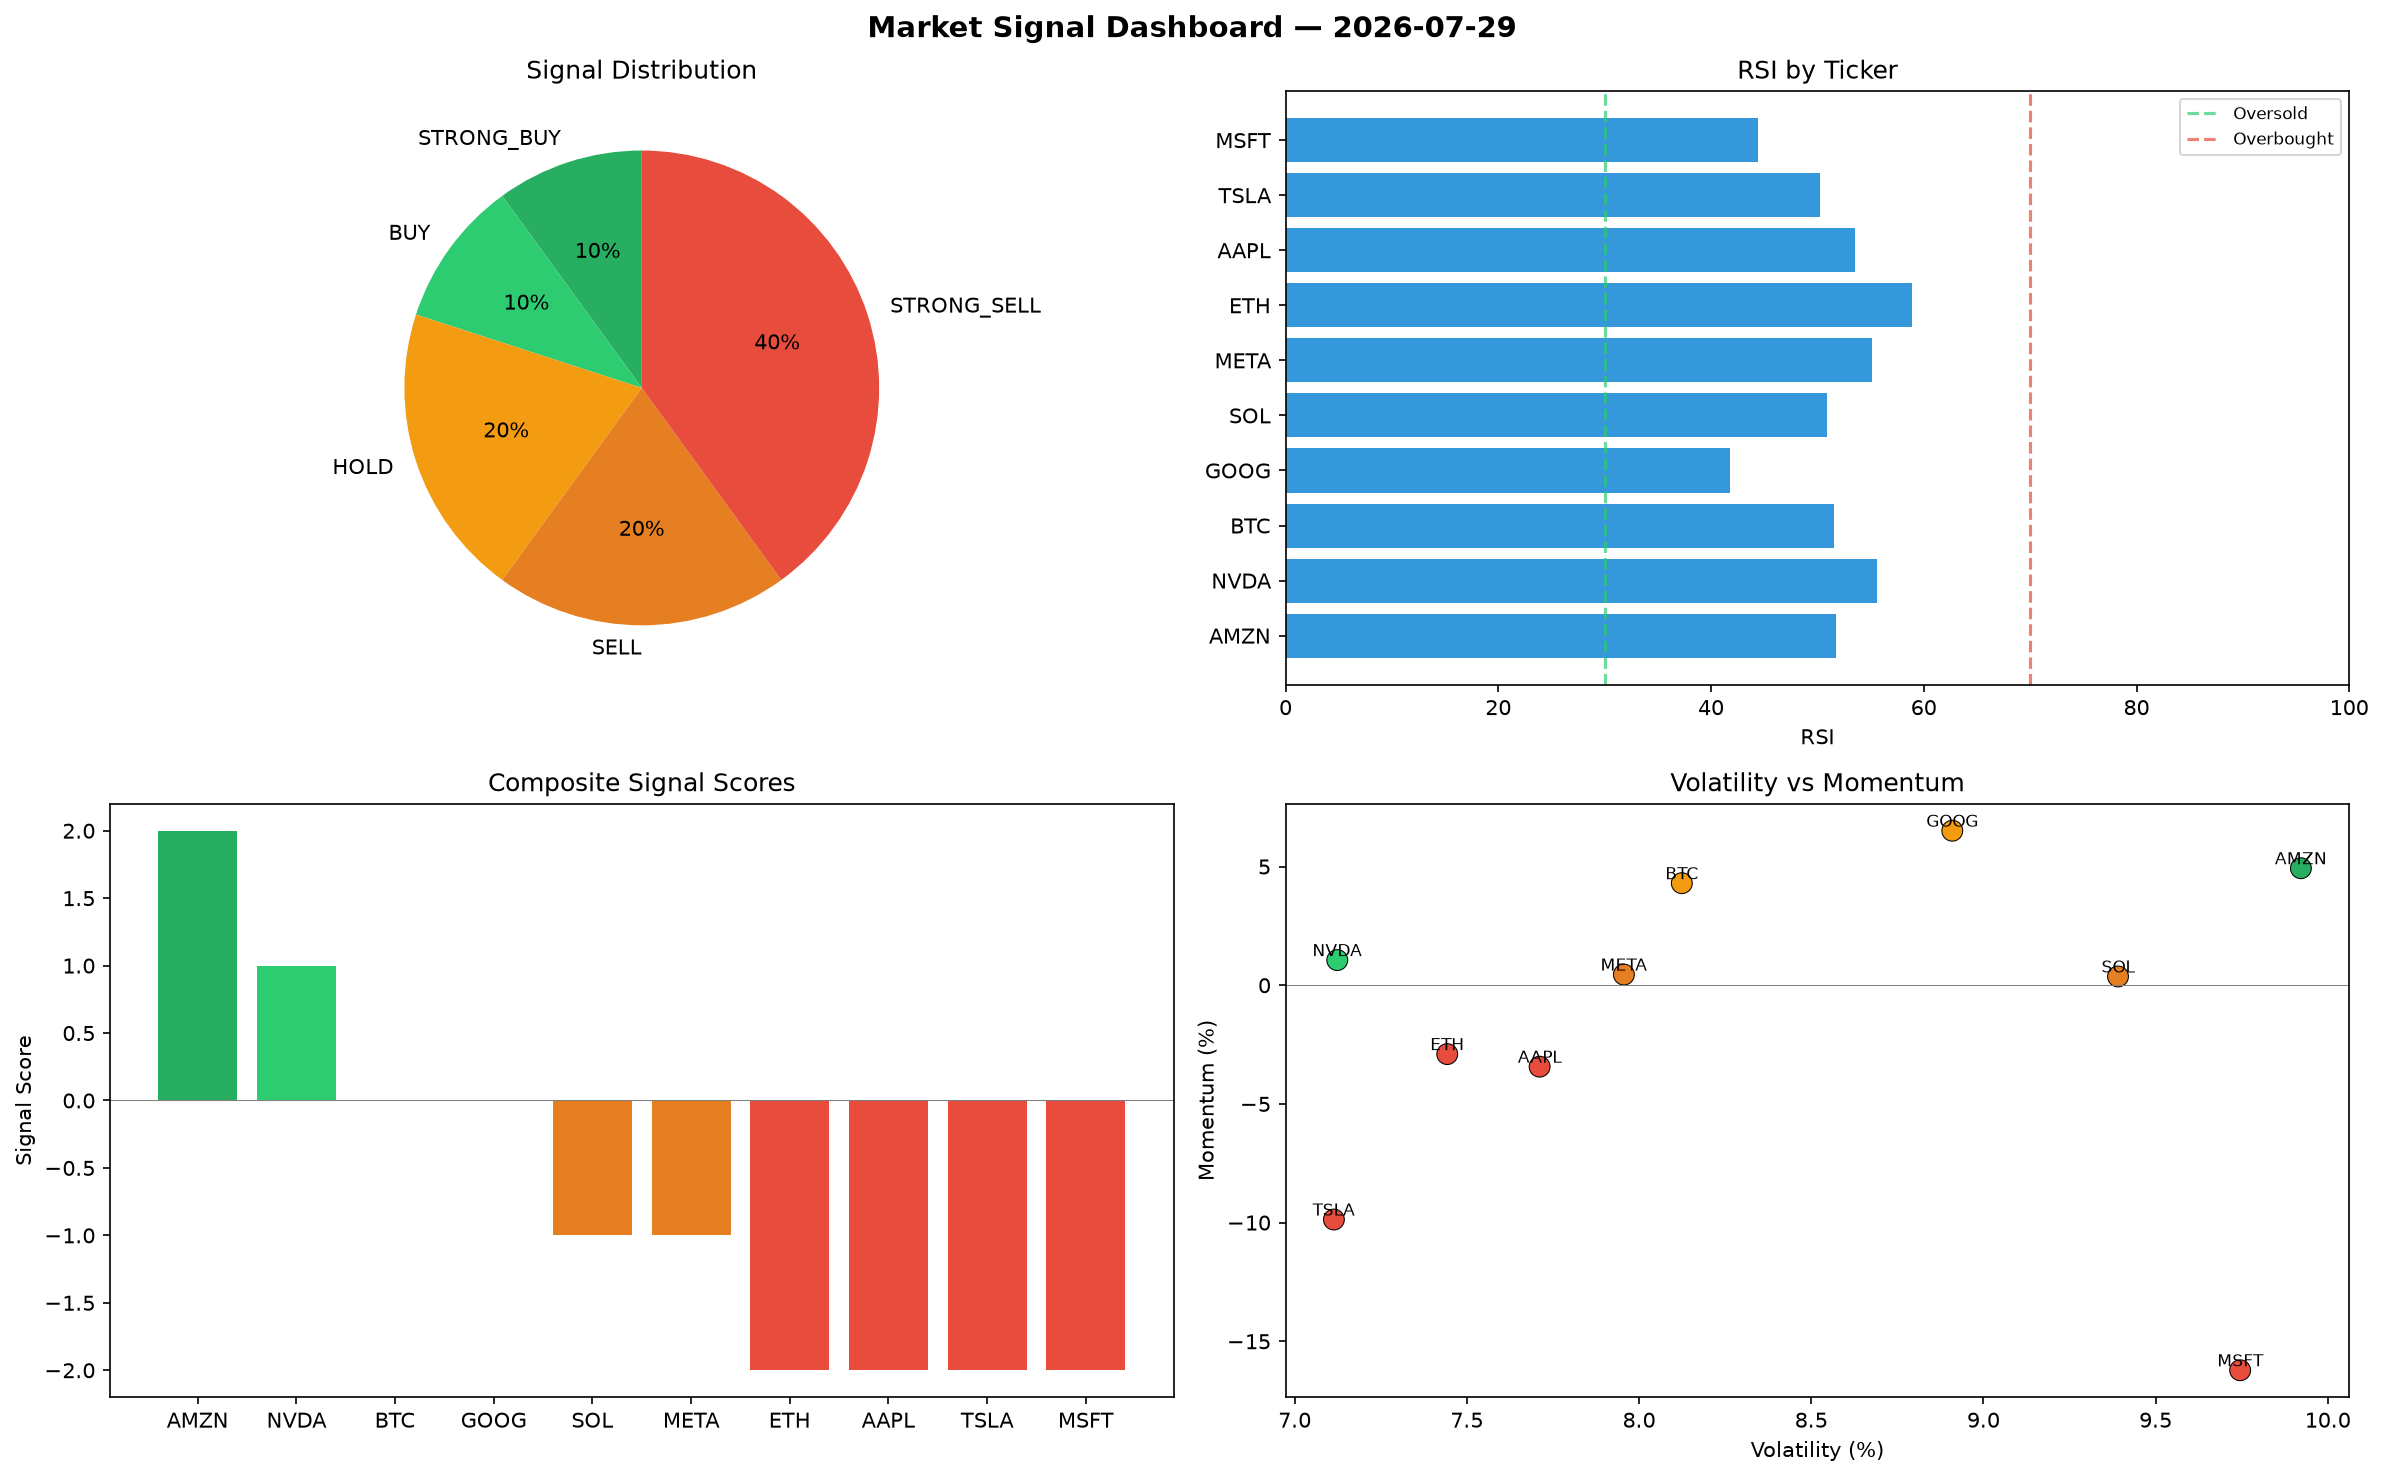
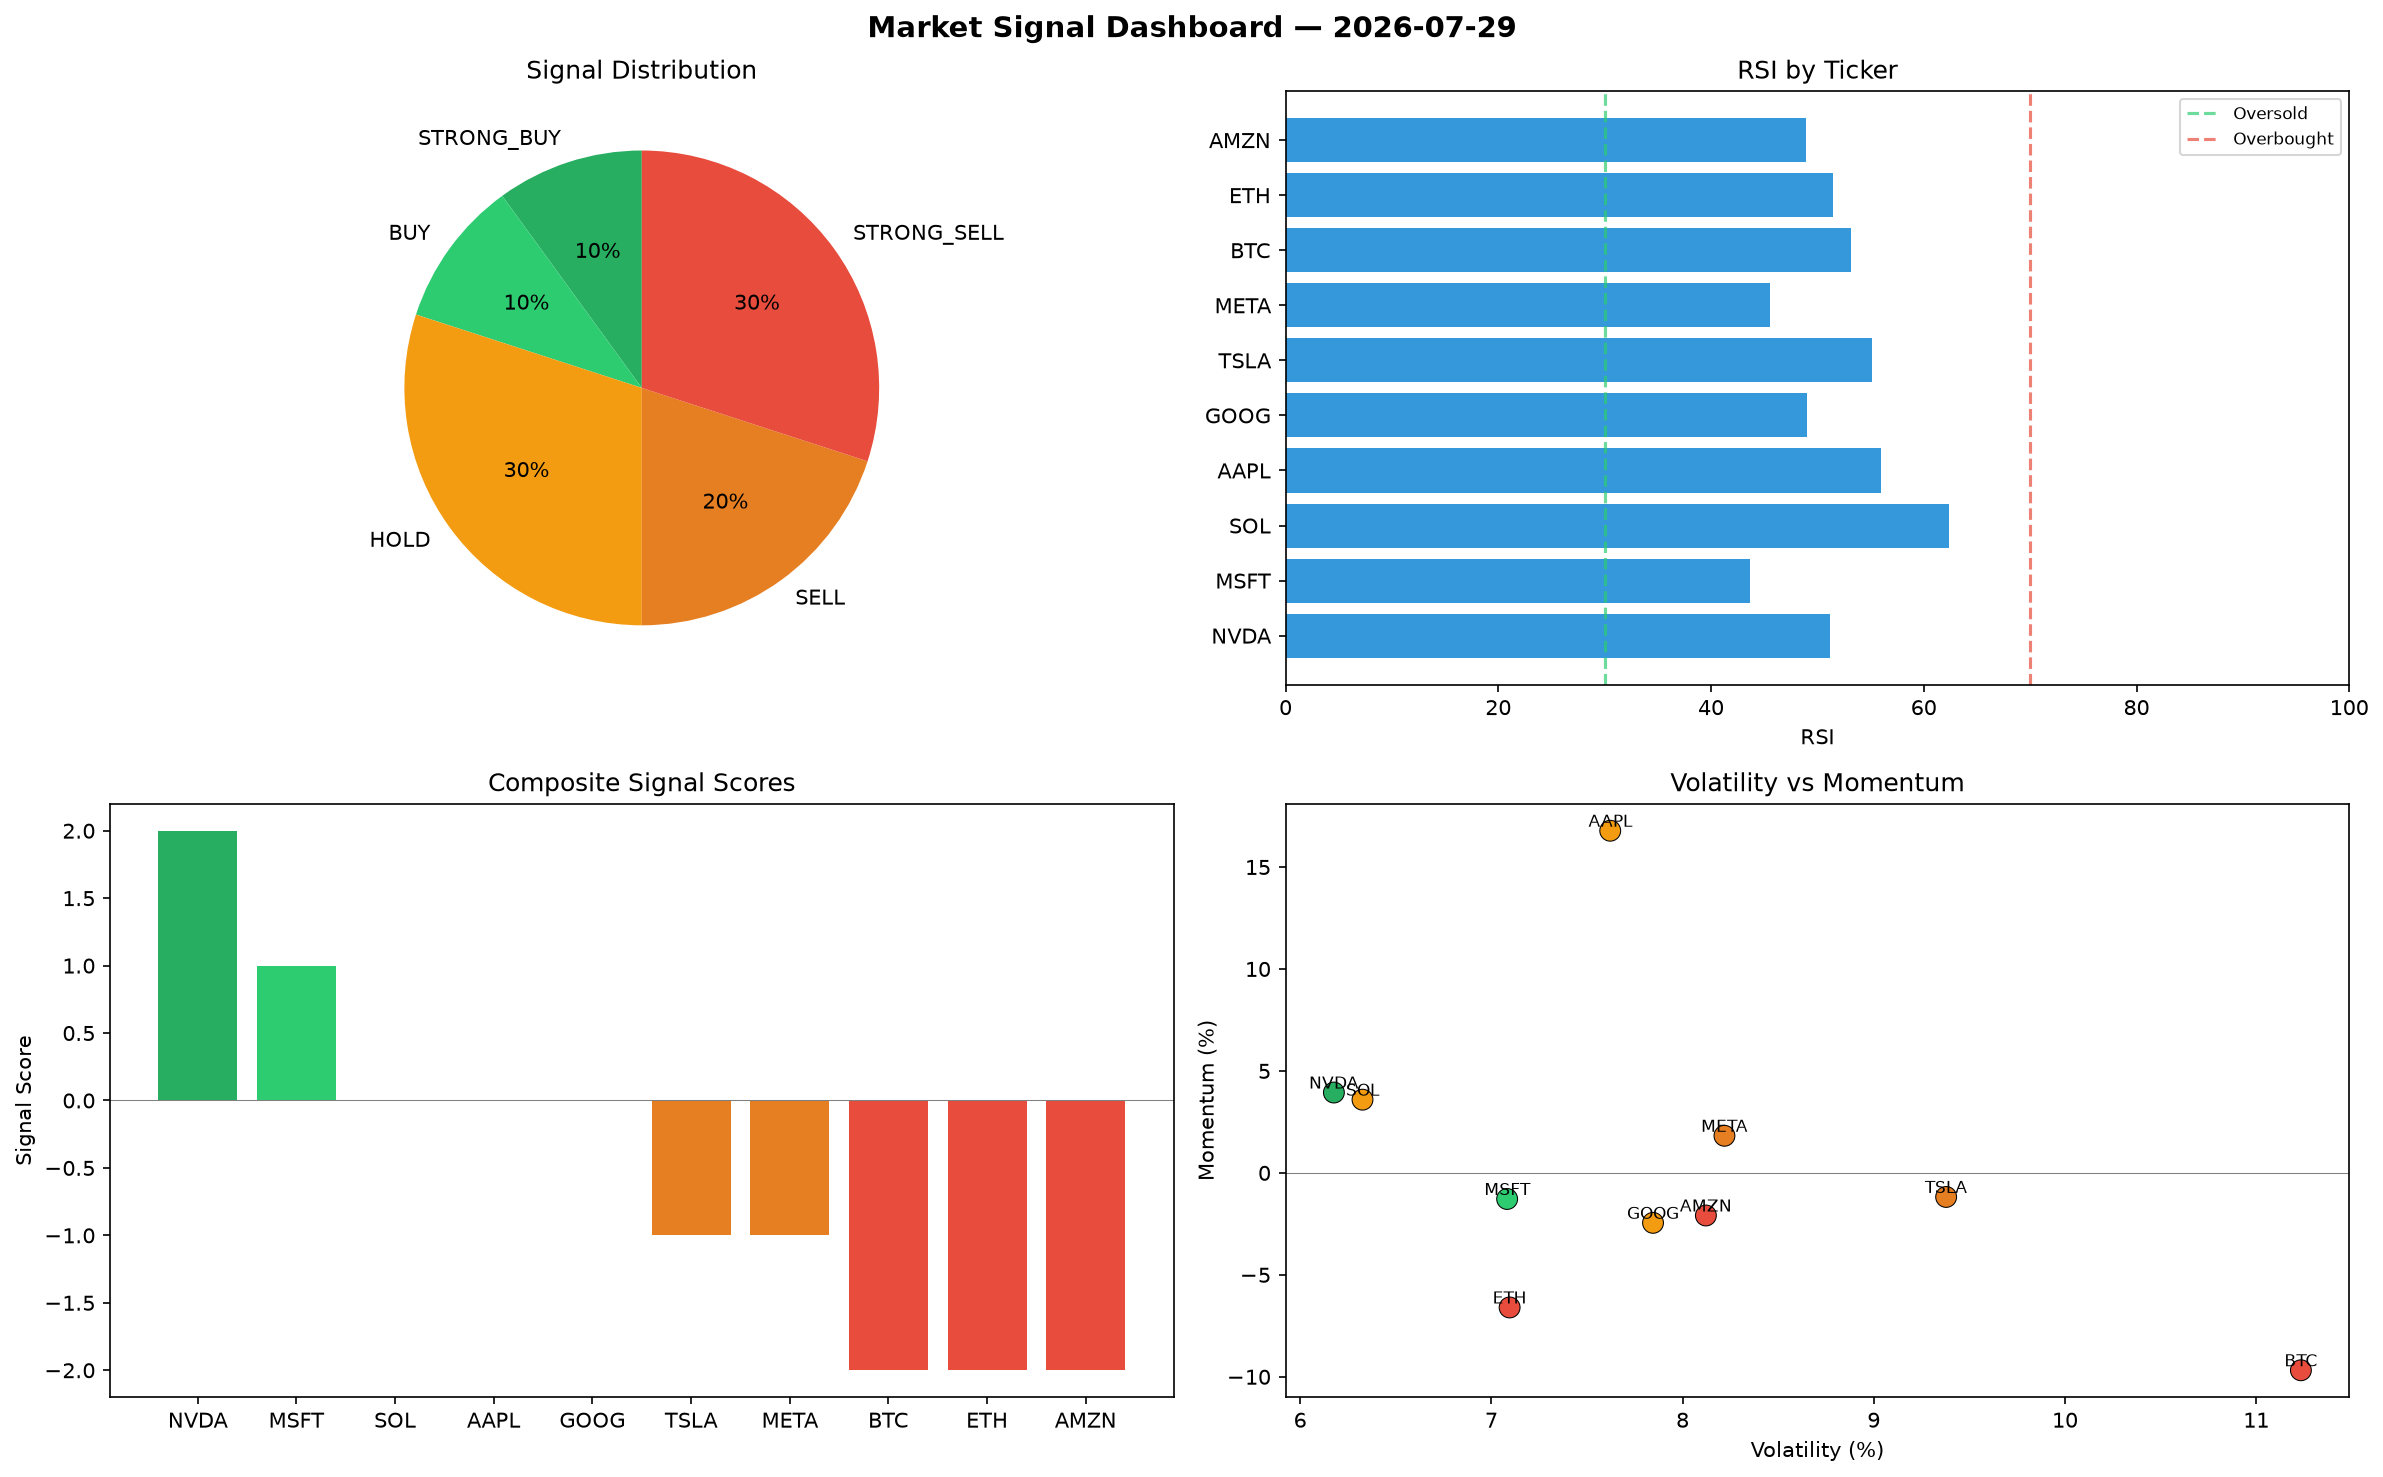
automated-bots: market signals 2026-07-29T21:24

diff --git a/logs/2026-07-29.md b/logs/2026-07-29.md
@@ -1,6 +1,6 @@
 # Market Signal Report — 2026-07-29
 
-**Run ID:** `843c8c6505` | **Buy:** 2 | **Sell:** 6 | **Hold:** 2
+**Run ID:** `90fa2414be` | **Buy:** 2 | **Sell:** 5 | **Hold:** 3
 
 ![Dashboard](2026-07-29_dashboard.png)
 
@@ -8,28 +8,28 @@
 
 | Ticker | Price | Signal | Score | RSI | Momentum | Confidence |
 |--------|-------|--------|-------|-----|----------|------------|
-| AMZN | $416.53 | **STRONG_BUY** | 2 | 51.71 | 0.0493 | 0.5 |
-| NVDA | $3095.83 | **BUY** | 1 | 55.61 | 0.0106 | 0.25 |
-| BTC | $1679.36 | **HOLD** | 0 | 51.52 | 0.043 | 0.0 |
-| GOOG | $3085.04 | **HOLD** | 0 | 41.8 | 0.0651 | 0.0 |
-| SOL | $49.23 | **SELL** | -1 | 50.94 | 0.0037 | 0.25 |
-| META | $4251.24 | **SELL** | -1 | 55.14 | 0.0045 | 0.25 |
-| ETH | $2367.4 | **STRONG_SELL** | -2 | 58.86 | -0.029 | 0.5 |
-| AAPL | $484.28 | **STRONG_SELL** | -2 | 53.5 | -0.0343 | 0.5 |
-| TSLA | $3409.26 | **STRONG_SELL** | -2 | 50.25 | -0.0987 | 0.5 |
-| MSFT | $2532.12 | **STRONG_SELL** | -2 | 44.4 | -0.1622 | 0.5 |
+| NVDA | $4976.82 | **STRONG_BUY** | 2 | 51.16 | 0.0394 | 0.5 |
+| MSFT | $4510.16 | **BUY** | 1 | 43.64 | -0.0128 | 0.25 |
+| SOL | $1201.48 | **HOLD** | 0 | 62.39 | 0.0359 | 0.0 |
+| AAPL | $5032.02 | **HOLD** | 0 | 55.99 | 0.1678 | 0.0 |
+| GOOG | $4102.01 | **HOLD** | 0 | 49.01 | -0.0245 | 0.0 |
+| TSLA | $2264.21 | **SELL** | -1 | 55.11 | -0.0118 | 0.25 |
+| META | $2254.68 | **SELL** | -1 | 45.52 | 0.0182 | 0.25 |
+| BTC | $3315.43 | **STRONG_SELL** | -2 | 53.2 | -0.0968 | 0.5 |
+| ETH | $590.64 | **STRONG_SELL** | -2 | 51.48 | -0.066 | 0.5 |
+| AMZN | $2404.51 | **STRONG_SELL** | -2 | 48.9 | -0.0209 | 0.5 |
 
 ## Delta vs Yesterday
 
 | Ticker | Today | Yesterday | Price Change | Signal Changed |
 |--------|-------|-----------|-------------|----------------|
-| AMZN | STRONG_BUY | HOLD | 📈 52.5% | ⚠ YES |
-| NVDA | BUY | HOLD | 📈 86.81% | ⚠ YES |
-| BTC | HOLD | STRONG_SELL | 📉 -30.3% | ⚠ YES |
-| GOOG | HOLD | STRONG_BUY | 📉 -41.33% | ⚠ YES |
-| SOL | SELL | BUY | 📉 -98.46% | ⚠ YES |
-| META | SELL | STRONG_BUY | 📈 86.42% | ⚠ YES |
-| ETH | STRONG_SELL | HOLD | 📈 37.63% | ⚠ YES |
-| AAPL | STRONG_SELL | HOLD | 📉 -80.23% | ⚠ YES |
-| TSLA | STRONG_SELL | HOLD | 📈 85.64% | ⚠ YES |
-| MSFT | STRONG_SELL | SELL | 📉 -12.8% | ⚠ YES |
+| NVDA | STRONG_BUY | HOLD | 📈 200.32% | ⚠ YES |
+| MSFT | BUY | SELL | 📈 55.31% | ⚠ YES |
+| SOL | HOLD | BUY | 📉 -62.42% | ⚠ YES |
+| AAPL | HOLD | HOLD | 📈 105.45% | — |
+| GOOG | HOLD | STRONG_BUY | 📉 -21.99% | ⚠ YES |
+| TSLA | SELL | HOLD | 📈 23.29% | ⚠ YES |
+| META | SELL | STRONG_BUY | 📉 -1.13% | ⚠ YES |
+| BTC | STRONG_SELL | STRONG_SELL | 📈 37.61% | — |
+| ETH | STRONG_SELL | HOLD | 📉 -65.66% | ⚠ YES |
+| AMZN | STRONG_SELL | HOLD | 📈 780.32% | ⚠ YES |
